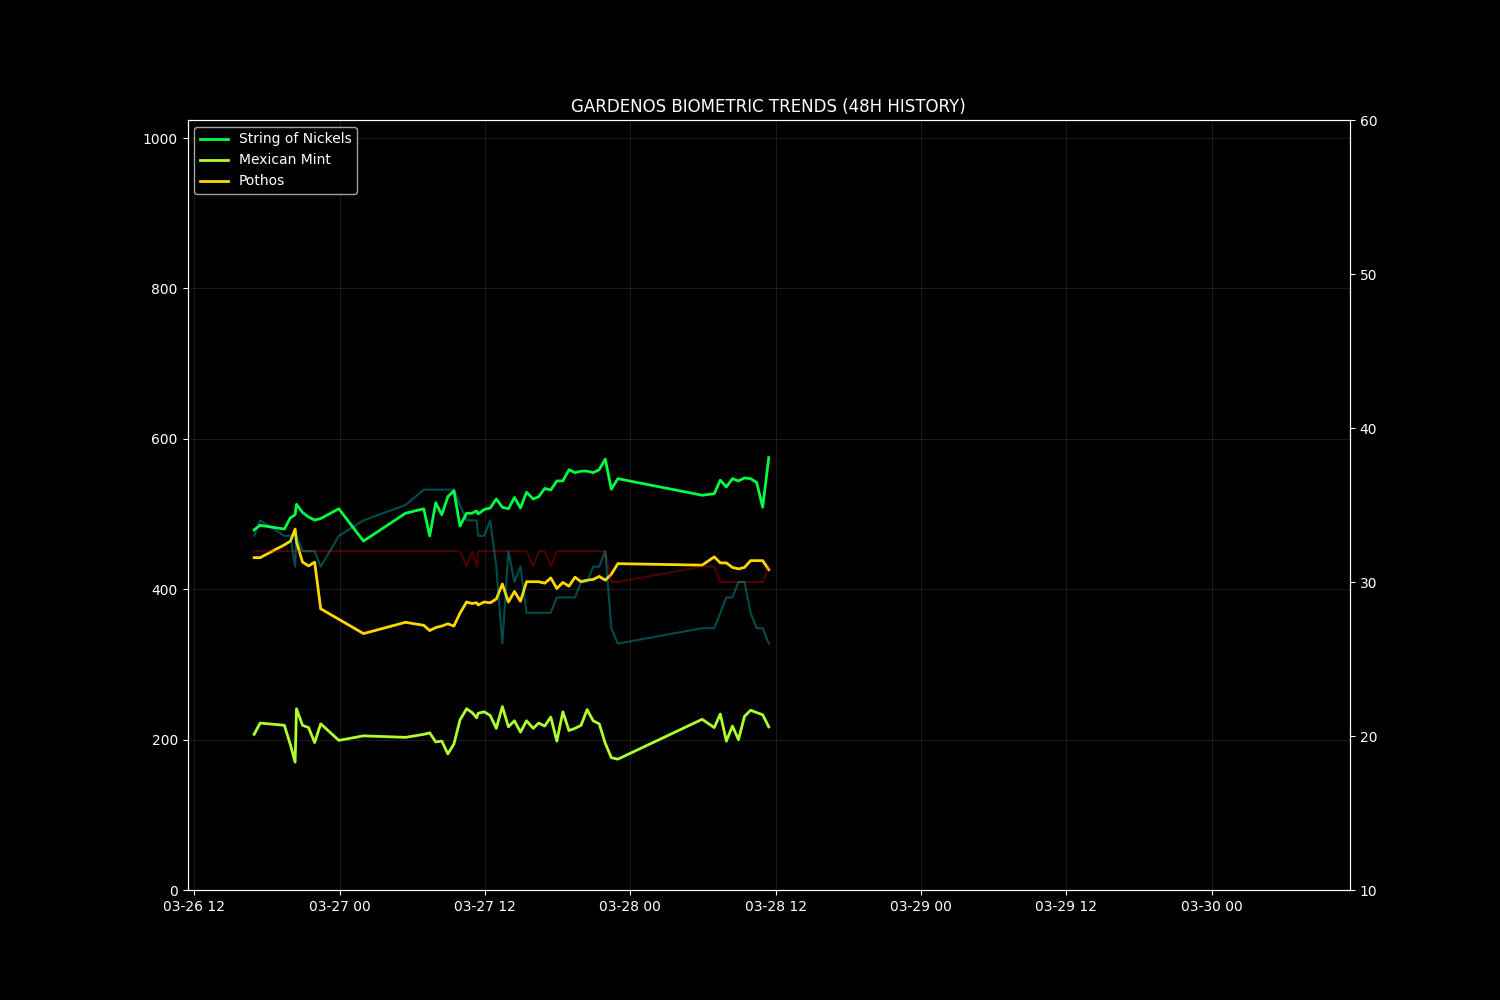
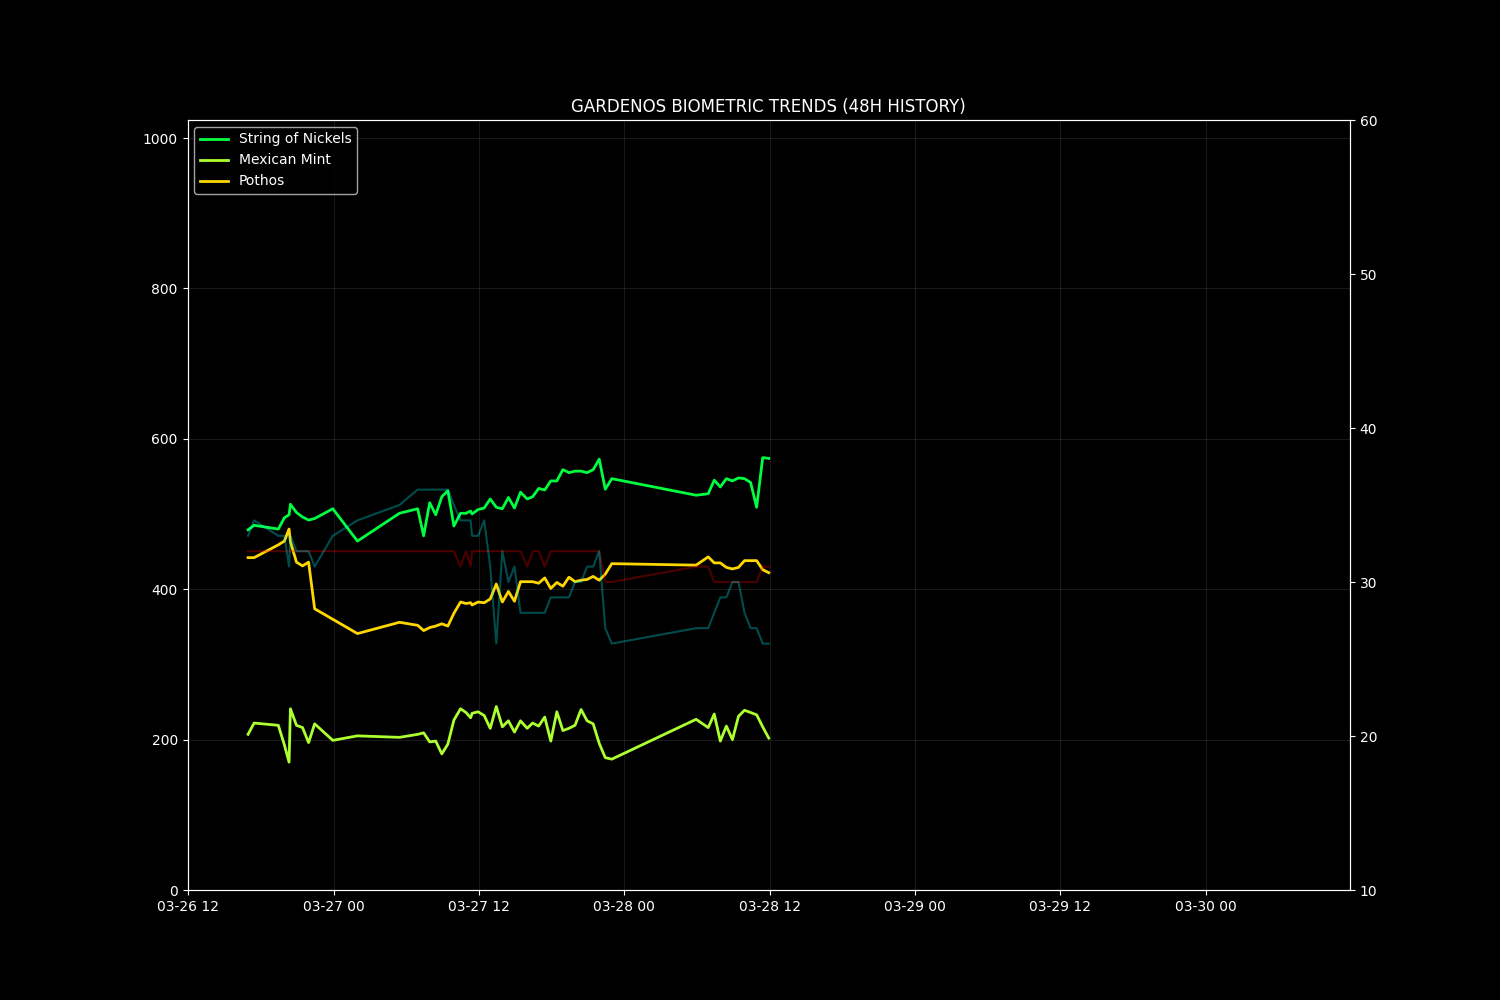
GardenOS Sync: 2026-03-28 12:05:06

diff --git a/data/observer_context.md b/data/observer_context.md
@@ -1,5 +1,5 @@
 # 📝 Project SILICA: Garden Observer Context
-**Generated:** 2026-03-28 11:04:09
+**Generated:** 2026-03-28 11:58:01
 
 ## 🏛 1. WORLD MODEL CONSTRAINTS (The Indoor Truth)
 (The Biome)
@@ -31,17 +31,15 @@
  - **VPD Divergence**: Expect indoor humidity to be 30-40% lower than outdoor forecasts due to AC dehumidification and fan scouring.
 
 ## 🧠 2. SEMANTIC FACT SYNTHESIS (The Warden's Logic)
-- **VPD State**: EXTREME (Critical Stress) at 3.097 kPa (Stable trend: 0.085).
-- **Care Event**: p1 is rehydrating (+11.7%). Action confirmed.
-- **Dry-down**: p2 moisture velocity is -6.4% per window. Metabolic activity is active.
-- **Dry-down**: p3 moisture velocity is -2.6% per window. Metabolic activity is active.
+- **VPD State**: EXTREME (Critical Stress) at 3.324 kPa (Rising trend: 0.354).
+- **Dry-down**: p1 moisture velocity is -8.0% per window. Metabolic activity is active.
+- **Care Event**: p2 is rehydrating (+11.2%). Action confirmed.
+- **Hydration Stagnancy**: p3 is flat (Δ2.0%). Check for root-stasis or sensor drift.
 - **Human Occupancy**: HIGH. Fan S (South) is active; localized air exchange is manual.
 
 ## 🌡 3. RECENT TELEMETRY (Verifier Data)
 ```csv
 timestamp,temp,hum,light,p1,p2,p3
-2026-03-27 22:25:28,30.0,27.0,870,533.0,176.0,420.0
-2026-03-27 22:57:51,30.0,26.0,914,547.0,174.0,434.0
 2026-03-28 05:55:30,31.0,27.0,913,525.0,227.0,432.0
 2026-03-28 06:55:28,31.0,27.0,784,527.0,216.0,443.0
 2026-03-28 07:25:28,30.0,28.0,717,545.0,234.0,435.0
@@ -52,14 +50,14 @@ timestamp,temp,hum,light,p1,p2,p3
 2026-03-28 09:55:28,30.0,28.0,578,547.0,239.0,438.0
 2026-03-28 10:25:28,30.0,27.0,580,542.0,236.0,438.0
 2026-03-28 10:55:28,30.0,27.0,572,509.0,233.0,438.0
+2026-03-28 11:25:28,31.0,26.0,546,575.0,217.0,426.0
+2026-03-28 11:55:28,31.0,26.0,554,574.0,202.0,422.0
 
 ```
 
 ## 📊 4. COMPUTED METRICS (Verifier Data)
 ```csv
 timestamp,vpd,p1_pct,p1_slope,p2_pct,p2_slope,p3_pct,p3_slope,p4_pct,p4_slope,p5_pct,p5_slope,p6_pct,p6_slope,p1_is_dry,p2_is_dry,p3_is_dry
-2026-03-27 22:25:28,3.097,59.5,,100.0,,72.4,,,,,,,,False,False,False
-2026-03-27 22:57:51,3.14,55.2,,100.0,,68.4,,,,,,,,False,False,False
 2026-03-28 05:55:30,3.279,62.0,,90.6,,68.9,,,,,,,,False,False,False
 2026-03-28 06:55:28,3.279,61.3,,95.3,,65.8,,,,,,,,False,False,False
 2026-03-28 07:25:28,3.055,55.8,,87.6,,68.1,,,,,,,,False,False,False
@@ -70,6 +68,8 @@ timestamp,vpd,p1_pct,p1_slope,p2_pct,p2_slope,p3_pct,p3_slope,p4_pct,p4_slope,p5
 2026-03-28 09:55:28,3.055,55.2,,85.4,,67.2,,,,,,,,False,False,False
 2026-03-28 10:25:28,3.097,56.7,,86.7,,67.2,,,,,,,,False,False,False
 2026-03-28 10:55:28,3.097,66.9,,88.0,,67.2,,,,,,,,False,False,False
+2026-03-28 11:25:28,3.324,46.6,,94.8,,70.7,,,,,,,,False,False,False
+2026-03-28 11:55:28,3.324,46.9,,100.0,,71.8,,,,,,,,False,False,False
 
 ```
 
